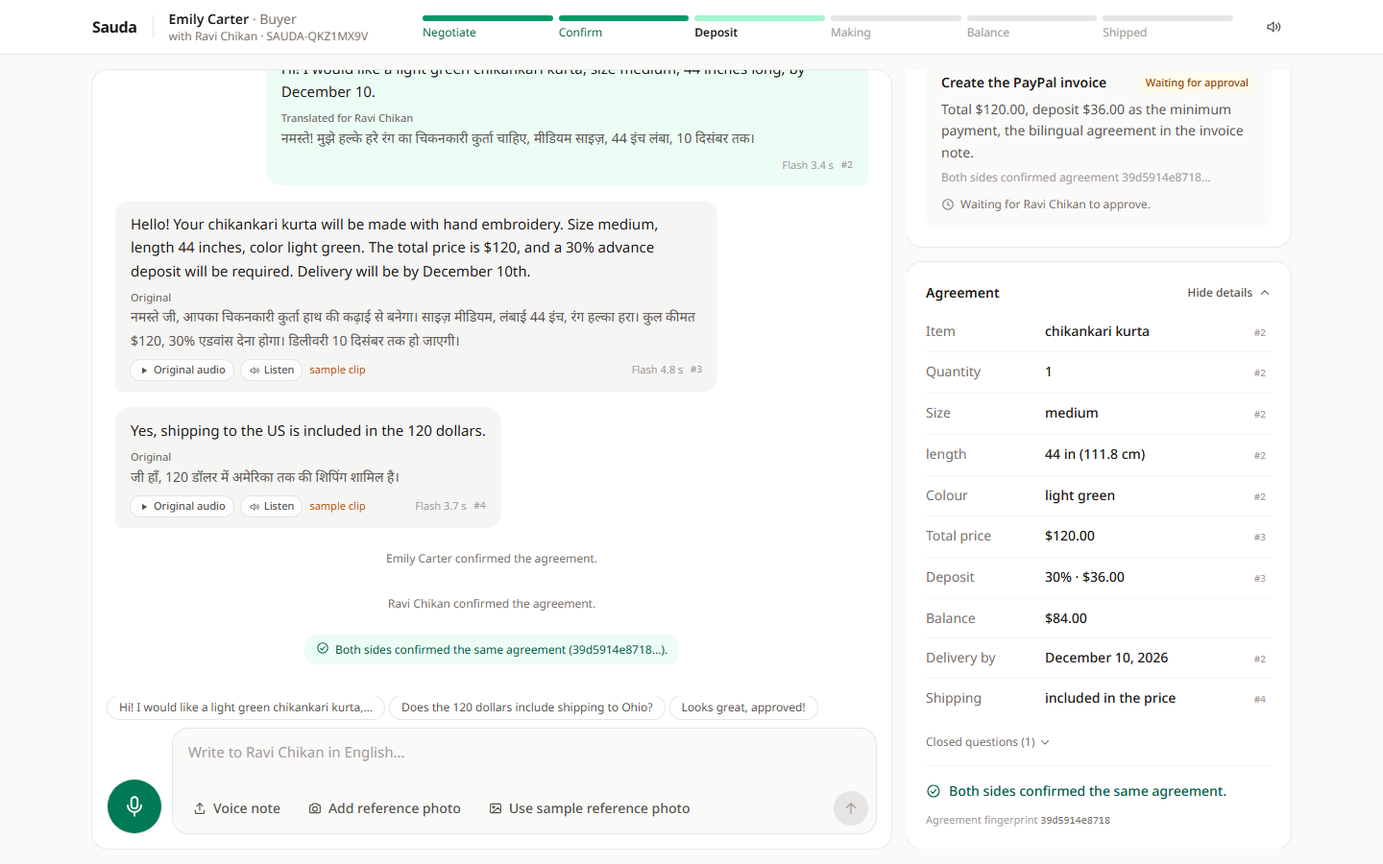
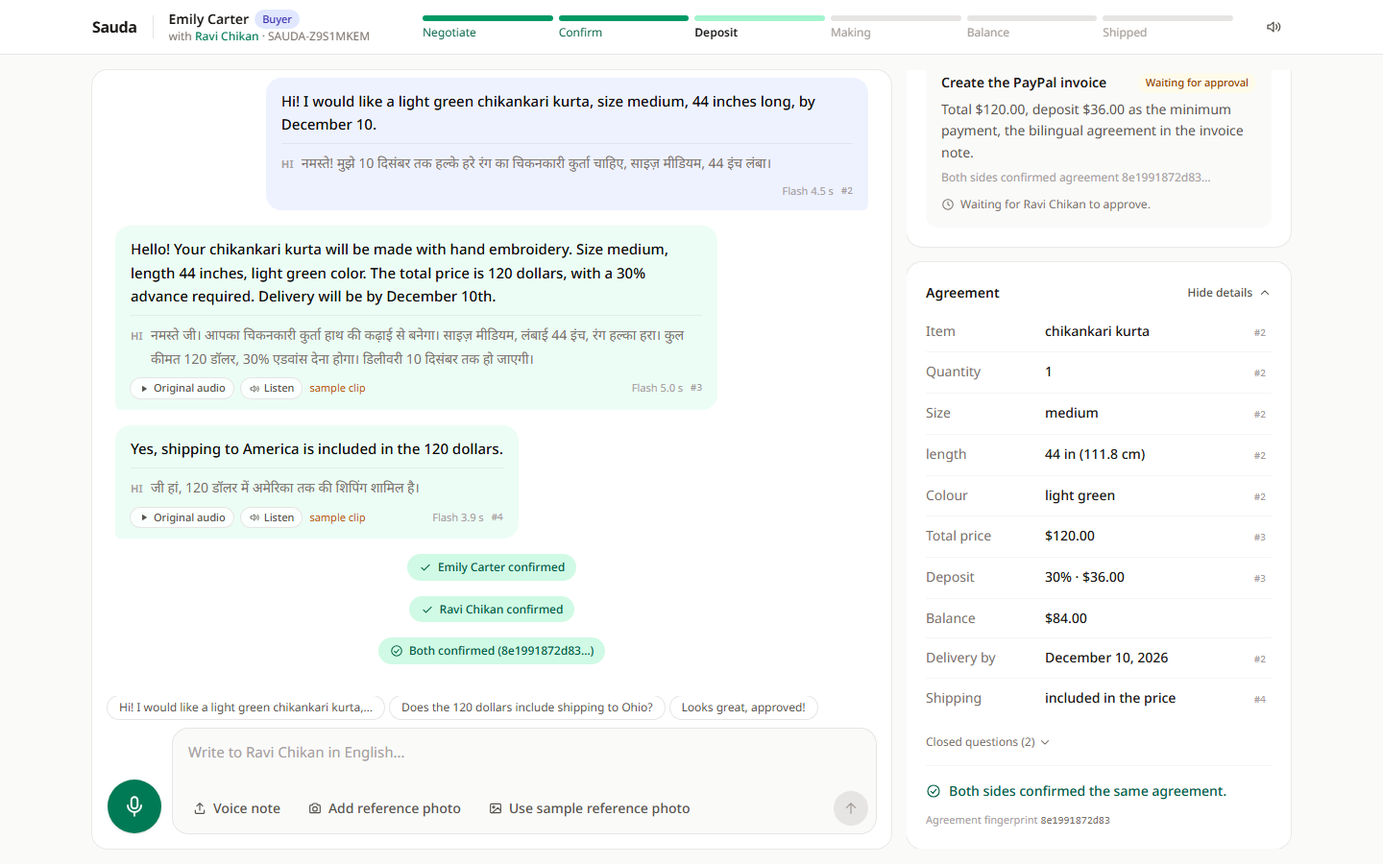
docs: design rules, README and screenshots for the language and colour refresh
Checked: npm run typecheck 0, npm run typecheck:bryntum 0, npm test 30 files / 194 tests passed, npm run build ok, npm run secret-scan 0 hits.

diff --git a/docs/design.md b/docs/design.md
@@ -8,50 +8,81 @@ The code side of the rules is in `client/src/ui.ts` (class tokens), `client/src/
 
 1. **One next step per card.** A card has at most one primary (filled) button. Everything else is a secondary, ghost or icon button.
 2. **Show the current state; fold the rest.** Finished things shrink: the agreement is three compact lines with the full list behind "Show all details", a locked agreement also folds its questions and confirm footer behind that toggle, done proposals become single lines, and answered questions fold into a "Closed questions (n)" toggle. Empty panels render nothing (no "No open questions" boxes), except the places listed under "Loading and empty states", which get one friendly line.
-3. **Viewer's language first.** Each bubble shows the viewer's language in the main text. The other language sits underneath in smaller grey text with a small label. All visible text goes through `t()` with keys in en, hi and es. Never hard-code English in a component.
+3. **Viewer's language first.** Each bubble shows the viewer's own language on top as the main text, darker and heavier than the rest. The other language sits underneath in smaller, lighter text with its language tag. All visible text goes through `t()` with keys in every language on the final list (see "Languages"). Never hard-code English in a component.
 4. **Technical labels only in judge mode.** The normal maker and buyer views hide model badges, message numbers, citation numbers, hashes and IDs. Judge mode shows them in small `text-stone-400` or mono text (see "Technical details and judge mode" below). Keep every existing `data-testid`.
-5. **Colour carries meaning.** Colour marks state only (done, waiting, needs attention, error), not decoration.
+5. **Colour says who and what state.** Two role colours tell the sides apart: the maker is emerald, the buyer indigo (bubbles, name chips, the "with {name}" link, the `/demo` captions). State colours mark what needs doing: amber = your action, emerald = done or money in, PayPal blue = pay, sky = ready, red = error or deadline. No other use of colour.
+6. **Highlight the next step, cut the rest.** The "Your turn" line names the one next action; chips and tiles replace sentences where a word or an amount says it.
 
 ## Layout
 
 - Page background `bg-stone-50` (set on `<body>`). Content sits in white cards: `ui.card` (`rounded-2xl bg-white ring-1 ring-stone-200/80`) with `p-5`. No borders inside cards except `divide-stone-100` or `border-stone-100` separators.
 - Room: a sticky header with the app name, the viewer's name and role, "with {other}" (plus " · SAUDA-id" in judge mode), the deal progress bar (`DealProgress`), the sound icon button and (maker only) the "Invite buyer" popover. From `lg` up it is one 56 px row (`h-14`) with the progress bar between the names and the buttons; below `lg` the progress bar is a second 40 px row under the names. The buyer's phone tabs sit in the same sticky block, under the header. Below it, from `lg` up, a two-column grid fills the viewport (`minmax(0,1fr) 400px`). The chat card is on the left. The side panel scrolls on its own on the right.
 - Side panel order: Deal / Money timeline (/ Production for the maker) tabs, then Payment (once the invoice exists), Agent proposals (when there are any), then Agreement. The questions and the confirm footer live inside the Agreement card.
-- Home (`/`): a centred `max-w-4xl` page. The hero (`max-w-2xl`): the title, a one-line pitch (`home-pitch`, `text-lg`/`sm:text-xl` `stone-800`), the problem line under it in `text-sm stone-500`, the one primary button "Try the 2-minute demo" (opens `/demo`, `px-6 py-3 text-base`, play icon) and a `ui.meta` note. Then three illustrated step cards in a `sm:grid-cols-3` grid (Talk in your language, Agree together, Get paid with PayPal): each a `ui.card p-5` with a picture from `components/Illustrations.tsx` on a `bg-stone-50` tile, a small emerald step number, a `ui.title` and a `text-sm stone-600` line. Below, in a `max-w-xl` column: the "Try it in 2 minutes" list, the "Start a real deal" form card, the result links card and the footer.
+- Side panel top: the "Your turn" line (`YourTurn`) sits above the tab list. On the buyer's phone it sits at the top of the main area instead, and is hidden while the pay bar shows.
+- Home (`/`): a centred `max-w-4xl` page. The hero band (`rounded-3xl bg-gradient-to-br from-emerald-50 via-white to-indigo-50 ring-1 ring-emerald-100`, the two role colours): the title, a one-line pitch (`home-pitch`, `text-lg`/`sm:text-xl` `stone-800`), the one primary button "Try the 2-minute demo" (opens `/demo`, `px-6 py-3 text-base`, play icon) and a row of language chips (`home-langs`, one `home-lang` per `LANGS` entry, each in its own script from `LANG_ENDONYMS`, with `lang` set). No problem paragraph and no note under the button. Then three illustrated step cards in a `sm:grid-cols-3` grid (Talk in your language, Agree together, Get paid with PayPal): each a `ui.card p-5` with a picture from `components/Illustrations.tsx` on a `bg-stone-50` tile, a small emerald step number, a `ui.title` and one short `text-sm stone-600` line. Below, in a `max-w-xl` column: the 3-step "Try it in 2 minutes" list, the "Start a real deal" form card, the result links card and the footer.
+- `/demo` (`pages/Demo.tsx`): a slim header with the app name, a "Judge mode" pill (`demo-judge`, `ui.pill ui.tone.quiet`, its title is the longer description) and "Start over" (`ui.btnSecondary`). Below, from `lg` up, the maker and buyer rooms side by side, each under a caption pill in its role colour (`demo-caption-maker` "Maker · हिंदी", `demo-caption-buyer` "Buyer · English", `ui.pill ui.role[role].chip`) and in a `rounded-2xl ring-1 ring-stone-200` frame. Each iframe renders at least 1100 px wide (`ROOM_WIDTH` in `ScaledFrame`) and is scaled down to fit its half, like a browser zoom, but never below 0.62. So on a 1600 px screen each room keeps its desktop layout: the agreement beside the chat and the microphone in view. Below `lg` the halves stack, unscaled.
 - Spacing: `gap-4` between cards, `mt-3` or `mt-4` between blocks inside a card, `space-y-4` between chat messages. Max content width `max-w-7xl`.
 - Below `lg`, everything stacks in one column. The FEAT-004 mobile buyer layout (tabs under 768 px, sticky composer) keeps these cards and tokens.
 
 ## Type
 
-- Font: Noto Sans plus Noto Sans Devanagari (loaded in `client/index.html`). Never make Devanagari smaller than 13 px.
+- Font: Noto Sans plus Noto Sans Devanagari and Noto Sans JP (`wght@400..700`, loaded in `client/index.html`). Latin text (en, es, fr, pt, de) uses Noto Sans. Never make Devanagari or Japanese smaller than 13 px.
+- **Japanese.** `styles.css` puts Noto Sans JP in the font stack by `:lang(ja)` (in `@layer base`), so any element with `lang="ja"` (a chat text, a home chip) gets Japanese glyph forms, also inside an English page. Kanji share code points with Chinese (Han unification), so the `lang` attribute is what picks the Japanese forms; set it on every element that shows a message's text. On a Japanese page (`<html lang="ja">`) the `--font-sans` token itself changes, so the Bryntum board follows, and `text-[11px]` and `text-xs` grow to 13 px, as do the board's `.sauda-state` and `.sauda-waiting` chips. Chinese and Korean are not on the list, so there are no SC/KR fonts and no Korean `keep-all` rule; adding them means a Noto Sans SC/KR link, a `:lang()` stack and the same 13 px rule.
 - **Hindi readability.** Devanagari gets one size step and more line height than Latin text at the same class. `styles.css` does it centrally, so components keep the normal classes: on a Hindi page (`<html lang="hi">`, set by the room) `text-[11px]` becomes 13 px, `text-xs` 13 px, `text-[13px]` 14 px and `text-sm` 15 px, with line heights of 1.5 to 1.7 unless a `leading-*` class is set. Chat text carries its own `lang` (from the message's original or translation language) and the `msg-main` / `msg-sub` classes, so Hindi in an English view also grows (main 16 px / 1.8, secondary 14 px / 1.75). Any new element that shows a message's text sets `lang` the same way.
 - Page title `text-4xl font-bold tracking-tight` (home only). Card title `ui.title` (`text-sm font-semibold text-stone-900`). Meta text `ui.meta` (`text-xs text-stone-500`). Form label `ui.label`.
-- Chat main text `text-[15px] leading-relaxed text-stone-900`. Chat secondary text (the translation or the original under it) `text-[13px] text-stone-600`, with an `text-[11px] text-stone-500` label above it. Do not make translation text lighter than `stone-600`.
-- Money: `text-xl font-semibold tracking-tight tabular-nums`. Use the `$x.xx` format the panels already use.
-- Use sentence case. Do not use all-caps labels.
+- Chat main text (the viewer's own language, on top on both sides) `text-[15px] font-medium leading-relaxed text-stone-950`. Chat secondary text (the other language under it, after a `border-black/5` rule) `text-[13px] text-stone-500`, led on the same line by its language tag: the uppercase code from `langCode()` (HI, EN, JA, FR …) in `text-[11px] font-semibold text-stone-400` (`message-sub-lang`), whose `title` says "Translated for {name}" or "Original". Both languages stay visible.
+- Money: `text-xl font-semibold tracking-tight tabular-nums` (the payment tiles: `text-xl`, `sm:text-2xl`). Use the `$x.xx` format the panels already use; prices stay USD in every language.
+- Use sentence case. The bubble language tags are the only all-caps text.
 
 ## Colour
 
 | Meaning | Classes |
 |---|---|
-| Text | `stone-900` main, `stone-600`/`stone-500` secondary, `stone-400` quiet |
-| Primary action, done, money received | `emerald-700` buttons, `emerald-600` dots and bars, `emerald-50` soft background |
-| Waiting for you, warning | `amber-50` background with `amber-800`/`amber-900` text |
-| Error | `red-50` background with `red-700`/`red-800` text |
-| PayPal pay buttons only | `bg-paypal` / `hover:bg-paypal-dark` (`#0070ba` / `#005ea6`, defined in `styles.css`) |
-| Running on PayPal | `sky-50` / `sky-800` |
+| Text | `stone-950`/`stone-900` main, `stone-600`/`stone-500` secondary, `stone-400` quiet |
+| Maker (role) | `ui.role.maker`: bubble `bg-emerald-50`, chip `bg-emerald-100 text-emerald-800`, text `text-emerald-700` |
+| Buyer (role) | `ui.role.buyer`: bubble `bg-indigo-50`, chip `bg-indigo-100 text-indigo-800`, text `text-indigo-700` |
+| Your action | `ui.tone.action` (`bg-amber-100 text-amber-900`); callouts `amber-50`/`amber-100` with an amber ring; dots `amber-500` |
+| Done, money in, primary buttons | `ui.tone.done` (`bg-emerald-100 text-emerald-800`); `emerald-700` buttons, `emerald-600` dots and bars, `emerald-50` tiles |
+| Pay | `ui.tone.pay` (`bg-paypal/10 text-paypal-dark`); pay buttons `ui.btnPayPal` (`bg-paypal` / `hover:bg-paypal-dark`, `#0070ba` / `#005ea6`, defined in `styles.css`) |
+| Ready (board) | `ui.tone.ready` (`bg-sky-100 text-sky-800`); bars `sky-200`, ring `sky-600` |
+| Error or deadline | `ui.tone.error` (`bg-red-100 text-red-800`); `red-50` boxes with `red-700`/`red-800` text; the board deadline `red-500` |
+| Quiet, waiting for the other side, locked | `ui.tone.quiet` (`bg-stone-100 text-stone-600`) |
 | Shipping, webhooks (timeline dots only) | `violet-400` / `violet-600` |
 
-Do not introduce new hues. Bubbles: your own messages are `bg-emerald-50` (right-aligned, `rounded-br-md`); the other side's are `bg-stone-100` (left-aligned, `rounded-bl-md`).
+These are all the hues. A new one needs a meaning in this table first. Bubbles take the speaker's role colour (`ui.role[from].bubble`); alignment says whose they are: your own on the right (`rounded-br-md`), the other side's on the left (`rounded-bl-md`).
 
 ## Components and tokens (`client/src/ui.ts`)
 
 - Buttons: `ui.btnPrimary` (one per card), `ui.btnSecondary`, `ui.btnGhost` (quiet text actions such as "check now" or "remind"), `ui.btnIcon` (36 px round, needs `aria-label` and `title`), `ui.btnTool` (composer pills), `ui.btnMic` with `ui.micIdle` / `ui.micRecording` (the composer's 56 px microphone, the only one), `ui.btnSend` (the composer's 36 px send button), `ui.btnPayPal` (pay links only), `ui.btnBubble` (small actions inside a bubble). `CopyButton` copies a link (small secondary by default, `primary` when it is the card's main action).
 - Inputs: `ui.input` for inputs and selects; `ui.label` above them.
 - Popovers: a `<details>` with `ui.summary` on the `<summary>` and `ui.menu` on the panel. Call `useCloseOnOutside(ref)` so a click outside or Escape closes it.
-- Status: a small dot (`h-1.5 w-1.5 rounded-full`) or a check circle with a short text, not a coloured pill per field. Status pills (`rounded-full px-2 py-0.5 text-[11px]`) are only for proposal states.
+- Status: `ui.pill` plus one `ui.tone.*` (or a `ui.role[role].chip`) is the one chip style. Use it for proposal states, chat events, the confirm status, the payment badge, the "Still needed" fields, the board row states and the role chip in the room header. Elsewhere a small dot or a check circle with a short text is enough.
 - QR codes: `QrImage` (drawn in the browser with `qrcode`, `rounded-lg ring-1 ring-stone-200`, a `ui.skeleton` square until ready). Used for the buyer's pay link (64 px) and the buyer invite (168 px).
-- System events in the chat are centred `text-xs` lines. Milestones (confirmed, invoice created, deposit, balance, paid in full, shipped, photo approved) get `bg-emerald-50` and a check icon. Alerts get `bg-amber-50`.
+- System events in the chat are centred `rounded-full` chips (`text-xs font-medium`, a 14 px icon, the short `event.*` text such as "Emily Carter confirmed" or "Deposit received $36.00"). The tone comes from `EVENT_CHIP` in `ChatPanel.tsx`: done for confirmations, payments received, photo approved and shipped; pay for the invoice and reminders; action for changed terms and requested photo changes; error for a cancelled invoice or changed invoice text; quiet for the deal opening.
+
+### Your turn (`components/YourTurn.tsx`, `client/src/nextAction.ts`)
+
+- `nextAction(view)` derives the one next step from the deal view only; it never changes PayPal or money state. `YourTurn` draws it as a line, never a button, so no card gets a second filled button: my action = amber (`ui.tone.action`, `ring-amber-200`, an `amber-500` dot, "Your turn · {action}"); the other side's move = quiet `bg-stone-100` with a clock icon, "Waiting for {name}"; nothing = no line. Test id `your-turn` with `data-action`.
+
+| State | Maker | Buyer |
+|---|---|---|
+| Cancelled, terms missing or with errors, locked, paid in full | nothing | nothing |
+| No invoice, I have not confirmed | `confirm` | `confirm` |
+| No invoice, the other side has not confirmed | `waiting` | `waiting` |
+| Both confirmed, the invoice proposal is pending or failed | `approveInvoice` | `waiting` (maker) |
+| Invoice, deposit not paid | `waiting` | `payDeposit` (amount) |
+| Deposit paid, no progress photo waiting | `sendPhoto` | `waiting` |
+| A progress photo waits for a decision | `waiting` | `reviewPhoto` (once interpreted) |
+| Photo approved, balance due | `waiting` | `payBalance` (amount) |
+
+- Phone tabs (buyer under 768 px) carry an amber dot (`data-attention="true"`) where an action waits: Agreement for `confirm` or an open question to me, Pay for `payDeposit`/`payBalance`, Chat for `reviewPhoto`.
+
+### Payment card (`PaymentPanel.tsx`) and the phone pay bar
+
+- Title row: "Payment" and the status badge (`pay-badge`, `data-state` invoiced | deposit_paid | balance_due | paid; tones pay, done, action, done; none when cancelled).
+- Three tiles (`invoice-paid` emerald, `invoice-due` amber while something is due, `invoice-total` stone), each a short label and the amount alone.
+- The pay link (`ui.btnPayPal`) names the amount: "Pay $36.00 deposit", "Pay $84.00 balance". The private-window tip sits behind an info icon button (`pay-tip`, a `<details>` popover with `useCloseOnOutside`).
+- On the buyer's phone, while the next action is `payDeposit` or `payBalance` and the Pay tab is not open, `PayBar` (`pay-bar`, the same `ui.btnPayPal` link with the amount, `target="_blank" rel="noopener noreferrer"`) sticks above the composer. The link must pass `isSandboxLink`.
 
 ### Deal progress (`components/DealProgress.tsx`)
 
@@ -66,7 +97,10 @@ Do not introduce new hues. Bubbles: your own messages are `bg-emerald-50` (right
 
 ### Agreement card (`AgreementPanel.tsx`)
 
-- Three grouped lines, in this order: What (item, quantity above 1, size, colour, measurements), Price and deposit (total price in bold, then deposit with its percent and the balance), Delivery ("By <date>", then shipping). Each line: a 32 px `rounded-lg` icon tile (`tag`, `wallet`, `truck`; `bg-emerald-50 text-emerald-700` when filled, `bg-stone-50 text-stone-300` when empty), the group name in `ui.meta`, and the values in `text-sm` (the lead value `font-semibold stone-900`, the rest `stone-700`, joined with " · "). An empty group says "Not agreed yet" in `stone-400`. Test ids: `agreement-line` with `data-group` and `data-filled`.
+- The What line first (item, quantity above 1, size, colour, measurements): a 32 px `rounded-lg` `tag` icon tile (`bg-emerald-50 text-emerald-700` when filled, `bg-stone-50 text-stone-300` when empty), the group name in `ui.meta`, the values in `text-sm` (the lead value `font-semibold stone-900`, the rest `stone-700`, joined with " · "). Under it a `grid-cols-3` row of tiles: the money group (`col-span-2`) holds the Price and Deposit tiles (deposit with its percent and the balance as a note), the delivery group holds the Delivery tile (the date, then shipping). A filled tile is `bg-emerald-50 ring-1 ring-emerald-100` with the value in `text-lg font-semibold text-emerald-900`; an empty one is `bg-stone-50` with "Not agreed yet" in `stone-400`. Test ids: `agreement-line` with `data-group` and `data-filled` on the What line and on the two groups.
+- Missing terms: "Still needed" followed by one amber chip per field (`agreement-missing`, `agreement-missing-field` with `data-field`).
+- Open questions (`QuestionsPanel.tsx`) are amber callouts with a `help` icon: `bg-amber-100 ring-amber-300` and a bold "For you to answer" when the answer is mine, `bg-amber-50 ring-amber-100` when it is the other side's.
+- Confirm status (`ConfirmCard.tsx`): chips, not sentences. `confirm-mine` = a done chip with a check and "You"; `confirm-other` = the other party's full name, a done chip with a check once they confirmed, else a quiet "{name} · waiting" chip (`data-state` confirmed | waiting).
 - The lines changed by the latest message that set a term show a quiet link under them, "from Ravi's message" (or "from your message"), with the message icon; a click scrolls to that message and flashes it like a citation. Judge mode adds `#seq` after it. When a snapshot changes a line, that line plays `term-flash` once.
 - "Show all details" (a small ghost button with a chevron in the card's title row, `agreement-expand`) swaps the lines for the full labelled list (`agreement-row`, `agreement-value`, `CiteChip` per term). Both stay in the DOM; the hidden one has `hidden`.
 
@@ -89,7 +123,7 @@ The user's rule: hide technical labels from the normal maker and buyer views, ke
 
 - **The flag.** Judge mode is on when the room URL has `judge=1` (`/r/:id?t=TOKEN&judge=1`). `App.tsx` reads it and `Room` puts it in the `JudgeMode` React context (`client/src/judge.ts`). Components read it with `useJudge()`. The room root has `data-judge="on|off"`. The DealView data does not change, only what is drawn.
 - **Hidden in the normal view, shown in judge mode:** the model and latency on chat bubbles (`model-badge`, for example "Flash 4.8 s"), message numbers (`#3`) on bubbles, citation numbers on agreement rows and questions, the hash in system events ("…agreement (a87671f50eef…)") and in proposal reasons, the agreement fingerprint line in the confirm footer (`confirm-hash`), the `SAUDA-<id>` deal id in the room header, and PayPal debug IDs on failed proposal cards.
-- **Text that contains a hash or a message number** gets a `.plain` twin key in en, hi and es (for example `event.agreement_confirmed.plain`). `tView(lang, key, params, judge)` and `renderEvent(…, judge)` choose the twin outside judge mode. A new string with a hash, id or `#seq` needs a `.plain` twin too.
+- **Text that contains a hash or a message number** gets a `.plain` twin key in every language (for example `event.agreement_confirmed.plain`). `tView(lang, key, params, judge)` and `renderEvent(…, judge)` choose the twin outside judge mode. A new string with a hash, id or `#seq` needs a `.plain` twin too.
 - **The source link stays.** Outside judge mode, `CiteChip` is a small message icon (`Icon name="message"`, `stone-300`, amber on hover) with the title "Show the message this came from". A click still scrolls to the source message and flashes it. In judge mode it shows `#seq`. Keep the `citation` test id and `data-seq` in both modes.
 - **Still shown in the normal view** because they are business information, not technical labels: the PayPal invoice number, amounts, tracking carrier and number, and the "sample clip" tag. The Money timeline tab is the opt-in technical log, so it keeps its methods, paths, HTTP statuses and debug IDs in both modes.
 - **FEAT-004 `/demo`** loads both iframes with `&judge=1`. A "Technical details" switch in the `/demo` header (a `ui.btnSecondary` with `aria-pressed`) may reload the iframes with or without `judge=1`. The normal maker and buyer links never set it.
@@ -121,11 +155,11 @@ All keyframes live in `styles.css` and switch off under `prefers-reduced-motion`
 
 - Built from `ui.*` tokens, `Icon` and the colours above; no new hues, no emoji icons.
 - One primary button per card; finished or empty states fold away or render nothing.
-- Every string in en, hi and es; check Hindi at 390 px width for wrapping.
+- Every string in every language on the final list (hi, en, es, fr, pt, de, ja). Write en, hi and es by hand; draft new or changed keys for the others with `scripts/translate-strings.ts --langs=fr,pt,de,ja --keys=<keys> --write` (Gemini draft, back-translation and a judge call), then read the result. `client/src/i18n.test.ts` fails on a missing key or a changed placeholder. Check Hindi, German (long words) and Japanese at 390 px width for wrapping.
 - Technical labels (model, latency, `#seq`, hashes, ids, debug IDs) render only when `useJudge()` is true; text containing them has a `.plain` twin.
-- `/demo`: two room iframes in judge mode (`&judge=1`) on `bg-stone-50`, each in a `rounded-2xl ring-1 ring-stone-200` frame with a small `ui.meta` caption (Maker · हिंदी, Buyer · English) above it, and "Start over" as a `ui.btnSecondary` in a slim header. They stack below `lg`.
-- Production board: a white `ui.card`. Row states use the same language as the payment milestones: done = emerald check circle, ready = hollow emerald ring, locked = `Icon name="lock"` in `stone-400` with the row text in `stone-400`. Bars are `bg-emerald-600` (done) or `bg-emerald-200` (ready) or `bg-stone-200` (locked). Gates are diamonds in the same colours. The deadline is a thin `red-500` line. The order row reads "<item> · <buyer name>"; `SAUDA-<id>` appears only in judge mode. Keep the `board-row-<key>` test ids and `data-state`.
-- Production board card: the title and the one-line subtitle on the left, the state legend (done, ready, locked, drawn with the same marks) on the right; a `board-loading` skeleton while the board chunk loads.
+- `/demo`: as described under Layout (Judge mode pill, role-coloured captions, scaled iframes in judge mode). Check it at 1600 px and at 1920 × 1080 with about 90% zoom (the video setup): both rooms, their agreements and microphones visible at once.
+- Production board: a white `ui.card`. Each row starts with a state chip (`board/StateChip.tsx` on the fallback board, the `.sauda-state` span in `styles.css` on Bryntum): done = `ui.tone.done` with a check, ready = `ui.tone.ready` (sky) with a hollow ring, locked = `ui.tone.quiet` with a lock, and the locked row text in `stone-400`. Bars are `bg-emerald-600` (done), `bg-sky-200` (ready) or `bg-stone-200` (locked). Gates are diamonds in the same colours. The amber "Waiting for the PayPal payment" chip (`.sauda-waiting`) stays on a gated row. The deadline is a thin `red-500` line. The order row reads "<item> · <buyer name>"; `SAUDA-<id>` appears only in judge mode. Keep the `board-row-<key>` test ids and `data-state`.
+- Production board card: the title on the left (no subtitle), the state legend drawn with the same chips on the right; a `board-loading` skeleton while the board chunk loads.
 - Voice, agreement, payment and progress UI follow the sections above; a new screen that shows a deal reuses `DealProgress`, `PaymentMoment` and `QrImage` rather than drawing its own.
-- Check every screen on a laptop (1440 × 900) and a phone (390 × 844) for both roles, and in Hindi as well as English.
+- Check every screen on a laptop (1440 × 900) and a phone (390 × 844) for both roles, in Hindi and English, and in Japanese and one long-word language (German) for wrapping.
 - Before asking the user to look, take a screenshot and check it against this file.

diff --git a/README.md b/README.md
@@ -1,6 +1,6 @@
 # Sauda
 
-**A live deal room where a Hindi-speaking maker and an English-speaking buyer agree a custom order in their own languages, and PayPal Invoicing runs the deposit, the balance and the shipment.**
+**A live deal room where a Hindi-speaking maker and an English-speaking buyer agree a custom order in their own languages, and PayPal Invoicing runs the deposit, the balance and the shipment.** Any pair of seven languages works: Hindi, English, Spanish, French, Brazilian Portuguese, German and Japanese.
 
 - **Hosted demo:** https://184-193-2-247.sslip.io (PayPal sandbox only, no real money), on AWS. Backup mirror on Render: https://sauda-95sg.onrender.com
 - **Video:** VIDEO_URL
@@ -14,7 +14,7 @@
 2. On the buyer side, type in English or tap one of the sample messages above the input box.
 3. On the maker side, open the sample clips menu (the headphones button, **सैंपल क्लिप**; the maker's screen is in Hindi) and press the first clip, the full order spoken by a real Hindi speaker. Gemini transcribes and translates it, and the agreement fills in on both sides. The AI then asks whether the price includes shipping; press the shipping clip to answer it.
 4. Press **Confirm this agreement** on the buyer side and **यह समझौता पक्का करें** on the maker side, then **मंज़ूर करें** (Approve) on the maker's invoice card. A real sandbox invoice is created and sent.
-5. On the buyer side, press **Pay deposit with PayPal** and pay with the sandbox buyer login from the Devpost testing instructions. Keep the pre-filled 36.00. Within about 10 seconds the maker sees **एडवांस मिल गया** (Deposit received) and the buyer sees "Deposit paid". If the PayPal tab keeps loading after "Thank you for using PayPal", close it: the room checks PayPal itself.
+5. On the buyer side, follow the amber **Your turn** line: press **Pay $36.00 deposit** and pay with the sandbox buyer login from the Devpost testing instructions. Keep the pre-filled 36.00. Within about 10 seconds the maker sees **एडवांस मिल गया** (Deposit received) and the buyer sees "Deposit paid". If the PayPal tab keeps loading after "Thank you for using PayPal", close it: the room checks PayPal itself.
 
 ## The problem and who it is for
 
@@ -24,11 +24,11 @@ Makers who take custom orders, such as tailors, embroiderers and jewellers, ofte
 - India alone counts 64.66 lakh (about 6.5 million) handicraft artisans ([PIB background note](https://static.pib.gov.in/WriteReadData/specificdocs/documents/2025/dec/doc2025129724401.pdf)).
 - PayPal in India is a cross-border service for selling abroad, not a domestic wallet ([TechCrunch](https://techcrunch.com/2021/02/04/paypal-is-shutting-down-domestic-payments-business-in-india/)).
 
-The demo pair is Ravi, a chikankari tailor in Lucknow who speaks Hindi, and Emily, a buyer in Ohio who speaks English. Spanish works too.
+The demo pair is Ravi, a chikankari tailor in Lucknow who speaks Hindi, and Emily, a buyer in Ohio who speaks English. The same room works between any two of Hindi, English, Spanish, French, Brazilian Portuguese, German and Japanese: the whole interface, the invoice text, dates and units follow each side's language. A Japanese maker and a French buyer run a full deal in the end-to-end tests.
 
 ## What it does
 
-- **Two private links, one room.** Each side opens its own link and talks in its own language, by push-to-talk, a voice note, a sample clip or typing. Every turn is shown to the other side translated, with the original underneath, and can be read aloud in a voice that matches the speaker.
+- **Two private links, one room.** Each side opens its own link and talks in its own language (Hindi, English, Spanish, French, Brazilian Portuguese, German or Japanese), by push-to-talk, a voice note, a sample clip or typing. Every turn is shown to the other side translated, with the original underneath, and can be read aloud in a voice that matches the speaker. A "Your turn" line names each side's next step, and colour marks who is who (maker green, buyer indigo) and what needs doing (amber).
 - **An agreement that writes itself, with sources.** Item, size, length, colour, price, deposit, delivery date and shipping fill in as the parties talk. Each term links to the message it came from. When something is unclear, such as whether the price includes shipping, the AI asks the right person.
 
   ![The bilingual agreement with citations and an open shipping question](docs/images/agreement-citations.png)
@@ -80,9 +80,9 @@ All model calls go to Gemini on Vertex AI (express mode) through the Google Gen 
 | Task | Model | Guardrail in code |
 |---|---|---|
 | Interpret a turn (voice or text): transcript, language, translation, agreement changes with source, clarifying questions, intents | `gemini-3.8-flash` at thinking level LOW. If it fails or has not answered after 8 s, `gemini-4-argon` is asked too while Flash keeps running; the first valid answer wins, within 38 s in total | One call with `responseJsonSchema`, then Ajv validation; an invalid answer counts as a failure. Money is integer cents; dates and units are parsed in code. [server/ai/gemini.ts](server/ai/gemini.ts), [server/ai/interpret.ts](server/ai/interpret.ts), [server/ai/schemas.ts](server/ai/schemas.ts) |
-| Describe the buyer's reference photo to the maker; check the maker's progress photo against the agreed terms | Same fast model and fallback | Advisory only: the buyer approves or rejects the photo, and the "Pay balance" button appears only after the buyer approves. [server/ai/vision.ts](server/ai/vision.ts) |
+| Describe the buyer's reference photo to the maker; check the maker's progress photo against the agreed terms | Same fast model and fallback | Advisory only: the buyer approves or rejects the photo, and the "Pay $84.00 balance" button appears only after the buyer approves. [server/ai/vision.ts](server/ai/vision.ts) |
 | Tracking and reminder intents ("DHL, number 4567891234") | Same call as the turn | An intent only becomes an approval card. The maker approves it, and code checks the carrier, the number and the invoice state first. [server/agent/proposals.ts](server/agent/proposals.ts), [server/agent/approvals.ts](server/agent/approvals.ts) |
-| Read a message aloud in a voice that matches its speaker (Aoede for the buyer, Umbriel for the maker) | `gemini-3.8-flash-tts` | The text is read as written, cut at 600 characters, with a 20 s timeout; each clip is cached per message. If the Gemini voice fails or has not started within 10 s, the browser's own voice reads the text. [server/ai/tts.ts](server/ai/tts.ts), [client/src/audio/speech.ts](client/src/audio/speech.ts) |
+| Read a message aloud in a voice that matches its speaker (Aoede for the buyer, Umbriel for the maker), in all seven languages | `gemini-3.8-flash-tts` | The text is read as written, cut at 600 characters, with a 20 s timeout; each clip is cached per message. If the Gemini voice fails or has not started within 10 s, the browser's own voice reads the text. [server/ai/tts.ts](server/ai/tts.ts), [client/src/audio/speech.ts](client/src/audio/speech.ts) |
 
 Every model attempt, including fallbacks and speech, first reserves a call from a daily budget (`AI_DAILY_CALL_LIMIT`, default 500) in [server/ai/budget.ts](server/ai/budget.ts).
 
@@ -112,7 +112,7 @@ The server keeps each deal as one JSON document, changes it only through a per-d
 - **Two-sided confirmation of the same terms.** A confirmation stores the SHA-256 hash of the canonical agreement. If the terms change afterwards, the hash no longer matches and both sides must confirm again. The hash is printed in the invoice note, and its first 16 characters in the invoice reference.
 - **No invoice before both confirm.** The agent can only propose the invoice. Approving it re-checks that both sides confirmed the current hash, that required terms are present and valid, and that the texts fit PayPal's limits ([server/agent/proposals.ts](server/agent/proposals.ts)).
 - **Deterministic money.** Prices, deposits and balances are integer cents and are formatted only at the edge ([server/domain/money.ts](server/domain/money.ts)).
-- **PayPal's text limits in UTF-8 bytes.** Hindi takes about three bytes per character, so the note, terms, item and reference are checked in bytes before anything is sent ([server/domain/agreement-text.ts](server/domain/agreement-text.ts)).
+- **PayPal's text limits in UTF-8 bytes.** Hindi (Devanagari) and Japanese take about three bytes per character, so the note, terms, item and reference are checked in bytes before anything is sent ([server/domain/agreement-text.ts](server/domain/agreement-text.ts)). A unit test builds a long agreement for all 42 ordered language pairs and checks that each fits.
 - **Idempotent writes.** Every PayPal write has a `PayPal-Request-Id`.
 - **Verified, deduplicated webhooks.** Signatures are verified with PayPal, each event id counts once, and the invoice is read again instead of trusting the event body. Polling covers a late or missing webhook.
 - **Limits for a public demo.** Per-IP rate limits on deal creation, turns, photos and approvals ([server/app.ts](server/app.ts)), per-deal caps of 200 messages and 20 photos ([server/deals/service.ts](server/deals/service.ts)), and the daily AI call budget ([server/ai/budget.ts](server/ai/budget.ts)).
@@ -143,7 +143,7 @@ All code was written for this hackathon, from Fri Nov 6 to Thu Nov 12, 2026 (IST
 | Tue Nov 10, 21:14 | [83d3a9f](https://github.com/krushnasalunke215-lang/Sauda/commit/83d3a9f) | Fix: keep a slow Flash call running while the fallback model is asked |
 | Wed Nov 11, 15:50 | [4f6d418](https://github.com/krushnasalunke215-lang/Sauda/commit/4f6d418) | Gemini voices for spoken playback, matched to the speaker |
 
-This README and its screenshots followed on Wed Nov 11, and the move of the hosted demo to AWS on Thu Nov 12.
+This README and its screenshots followed on Wed Nov 11, and the move of the hosted demo to AWS and the language and colour refresh (French, Portuguese, German and Japanese, the "Your turn" line, colour-coded roles and states) on Thu Nov 12.
 
 ## Run locally
 
@@ -192,6 +192,8 @@ One-time setup, already done on the instance: Node 24.11.1 in `/opt/node`, Caddy
 - **No disputes or refunds** yet. The confirmed, hashed agreement on the invoice is a natural piece of dispute evidence; using it is on the roadmap.
 - **USD only, no INR settlement.** The sandbox merchant is a US business. Real Indian makers would rely on PayPal India's cross-border receiving, which was not tested here.
 - **Gemini capacity.** When Vertex AI is busy, Flash can take longer than 30 s and the fallback can return 429 (quota). A turn with no valid answer after 38 s shows a Retry button.
+- **Machine-drafted translations.** The UI text beyond Hindi, English and Spanish was drafted with Gemini and checked by back-translation, a model judge and a spot check, not by native speakers.
+- **Hindi-only sample clips.** The recorded sample clips are in Hindi. In the other languages, speak or type.
 - **Push-to-talk, not streaming.** Each turn is one clip and one model call, about 5 to 8 s. Live speech-to-speech translation (Gemini Live) is a possible upgrade; it was not tested with Hindi.
 - **Sandbox checkout can hang** on "Thank you for using PayPal". The room does not depend on the redirect: it polls the invoice and shows the payment anyway.
 - **No invoice attachments.** The Invoicing API cannot upload them, so photos stay in the room and the agreement goes in the invoice text fields.
